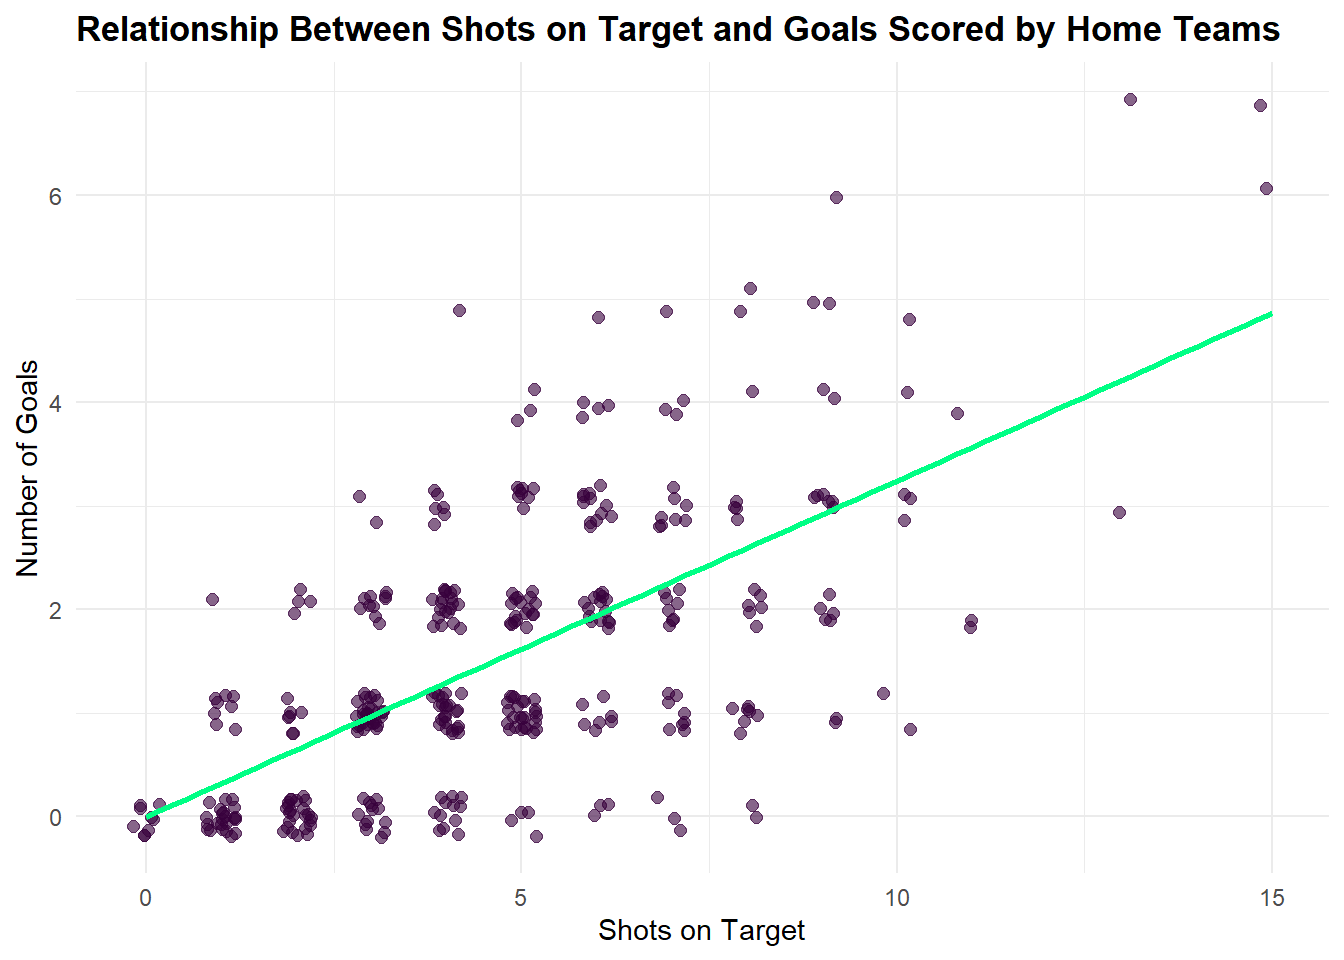
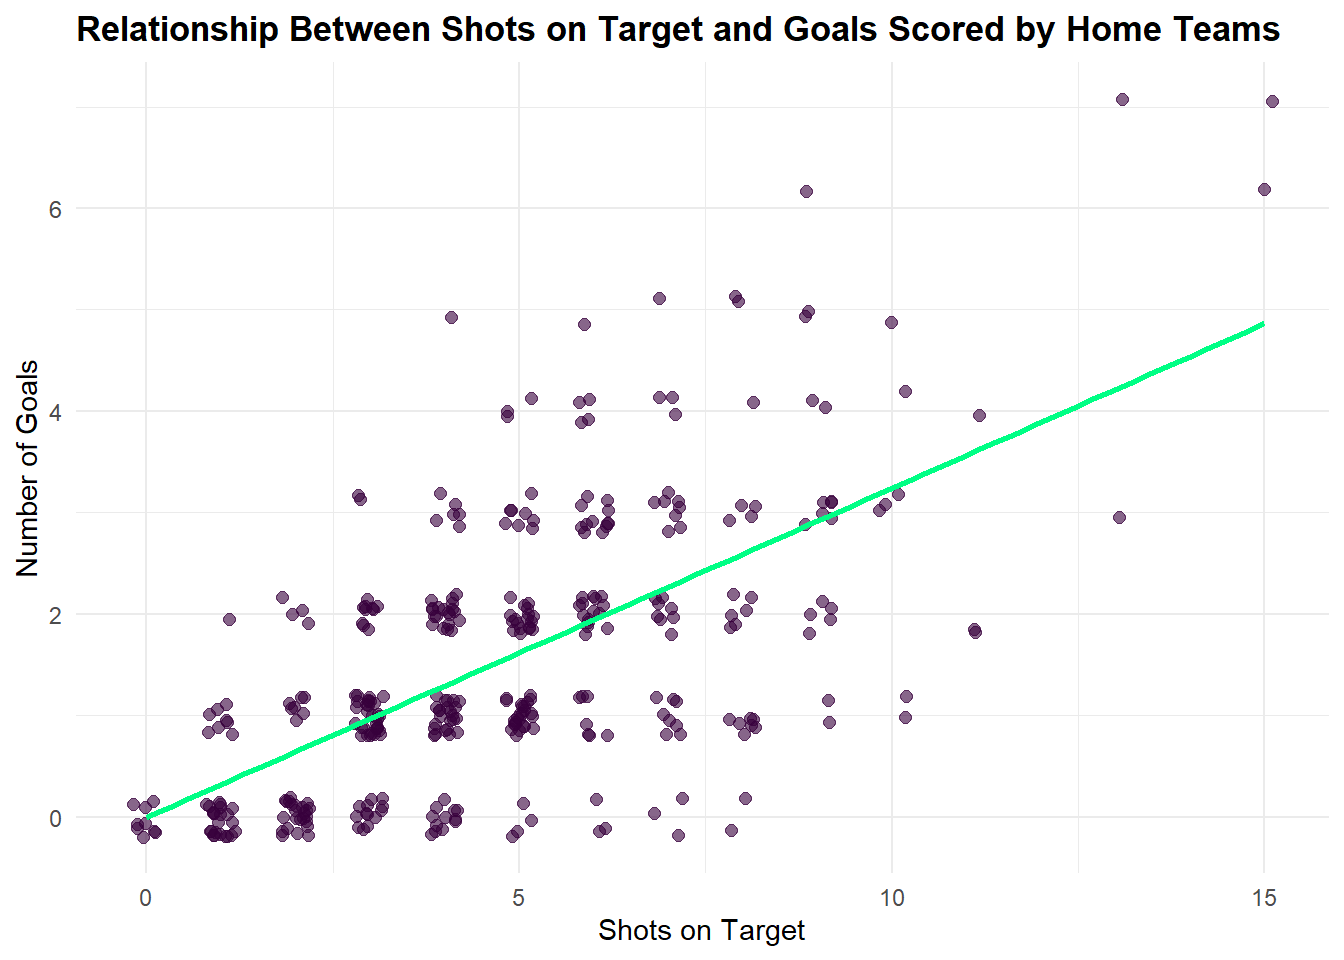
Final Fixes

diff --git a/docs/Premier League Match Analysis.html b/docs/Premier League Match Analysis.html
@@ -324,7 +324,7 @@ ul.task-list li input[type="checkbox"] {
 
 <div>
   <div class="description">
-    Analysis Of Premier League Data from Tidy Tuesday
+    <p>Analysis Of Premier League Data from Tidy Tuesday</p>
   </div>
 </div>
 
@@ -353,10 +353,13 @@ ul.task-list li input[type="checkbox"] {
 </header>
 
 
-<p>## Introduction</p>
+<section id="introduction" class="level2">
+<h2 class="anchored" data-anchor-id="introduction">Introduction</h2>
 <p>The Premier League is widely regarded as the most competitive domestic football league in the world, where fine margins separate the top of the table from the bottom. This analysis explores match-level data from the 2021/22 Premier League season to understand what actually drives goals and match outcomes. Specifically, it investigates three questions: Does shooting more lead to scoring more? Does shot accuracy matter more than shot volume? And does playing at home provide a measurable scoring advantage?</p>
-<p><strong>**Key</strong> question: What factors are most associated with scoring goals in the Premier League, and how much of an edge does home advantage really provide?</p>
-<p>## Shots vs.&nbsp;Goals</p>
+<p><strong>Key question: What factors are most associated with scoring goals in the Premier League, and how much of an edge does home advantage really provide?</strong></p>
+</section>
+<section id="shots-vs.-goals" class="level2">
+<h2 class="anchored" data-anchor-id="shots-vs.-goals">Shots vs.&nbsp;Goals</h2>
 <div class="cell">
 <div class="cell-output-display">
 <div>
@@ -367,8 +370,9 @@ ul.task-list li input[type="checkbox"] {
 </div>
 </div>
 <p>The scatter plot above shows the relationship between the number of shots a home team takes and the number of goals they score in a match. The trend line shows a positive relationship — teams that take more shots tend to score more goals — but the relationship is far from perfect. Many matches with 15-20 shots still resulted in zero or one goal, while a handful of matches saw teams convert relatively few shots into multiple goals. This suggests that shot volume alone is not the full story behind scoring output.</p>
-<p><br>
-## Shot Accuracy vs.&nbsp;Goals</p>
+</section>
+<section id="shot-accuracy-vs.-goals" class="level2">
+<h2 class="anchored" data-anchor-id="shot-accuracy-vs.-goals">Shot Accuracy vs.&nbsp;Goals</h2>
 <div class="cell">
 <div class="cell-output-display">
 <div>
@@ -378,9 +382,10 @@ ul.task-list li input[type="checkbox"] {
 </div>
 </div>
 </div>
-<p>This second plot narrows the focus from total shots to shots <em>on target</em>, a more direct measure of attacking quality. The relationship here is noticeably tighter than the first plot, suggesting that shot accuracy is a stronger predictor of goals than shot volume alone. In other words, teams that consistently test the goalkeeper are more likely to score than teams that simply shoot often without precision. This points to a broader insight: quality of chances created often matters more than raw shot count.<br>
-<br>
-## Home Advantage</p>
+<p>This second plot narrows the focus from total shots to shots on target, a more direct measure of attacking quality. The relationship here is noticeably tighter than the first plot, suggesting that shot accuracy is a stronger predictor of goals than shot volume alone. In other words, teams that consistently test the goalkeeper are more likely to score than teams that simply shoot often without precision. This points to a broader insight: quality of chances created often matters more than raw shot count.</p>
+</section>
+<section id="home-advantage" class="level2">
+<h2 class="anchored" data-anchor-id="home-advantage">Home Advantage</h2>
 <div class="cell">
 <div class="cell-output-display">
 <div>
@@ -390,17 +395,19 @@ ul.task-list li input[type="checkbox"] {
 </div>
 </div>
 </div>
-<p>The final chart compares the average number of goals scored by home teams versus away teams across the entire season. Home teams scored more goals on average than away teams, confirming the long-discussed “home advantage” effect in football. This is likely driven by a combination of factors not captured in this dataset, including crowd support, travel fatigue for the away side, and greater familiarity with the pitch and surroundings.<br>
-<br>
-## Conclusion</p>
-<p><br>
-Taken together, these three analyses suggest that goals in the Premier League are driven less by sheer shot volume and more by shot quality and contextual factors like home advantage. While teams that take more shots do tend to score more, the relationship strengthens considerably when looking specifically at shots on target, indicating that precision matters more than persistence. Additionally, the consistent home scoring advantage reinforces why managers and analysts place so much emphasis on home form when evaluating a team’s title or relegation chances. Ultimately, the data tells a clear story: in the Premier League, quality of opportunity and home support are just as important as the raw number of attempts a team generates.<br>
-<br>
-## Reference</p>
-<p>Gower, E. (2023). <strong>*Premier</strong> League Match Data* [Data set]. TidyTuesday, R for Data Science. https://github.com/rfordatascience/tidytuesday/blob/main/data/2023/2023-04-04/readme.md</p>
+<p>The final chart compares the average number of goals scored by home teams versus away teams across the entire season. Home teams scored more goals on average than away teams, confirming the long-discussed “home advantage” effect in football. This is likely driven by a combination of factors not captured in this dataset, including crowd support, travel fatigue for the away side, and greater familiarity with the pitch and surroundings.</p>
+</section>
+<section id="conclusion" class="level2">
+<h2 class="anchored" data-anchor-id="conclusion">Conclusion</h2>
+<p>Taken together, these three analyses suggest that goals in the Premier League are driven less by sheer shot volume and more by shot quality and contextual factors like home advantage. While teams that take more shots do tend to score more, the relationship strengthens considerably when looking specifically at shots on target, indicating that precision matters more than persistence. Additionally, the consistent home scoring advantage reinforces why managers and analysts place so much emphasis on home form when evaluating a team’s title or relegation chances. Ultimately, the data tells a clear story: in the Premier League, quality of opportunity and home support are just as important as the raw number of attempts a team generates.</p>
+</section>
+<section id="reference" class="level2">
+<h2 class="anchored" data-anchor-id="reference">Reference</h2>
+<p>Gower, E. (2023). <em>Premier League Match Data</em> [Data set]. TidyTuesday, R for Data Science. <a href="https://github.com/rfordatascience/tidytuesday/blob/main/data/2023/2023-04-04/readme.md" class="uri">https://github.com/rfordatascience/tidytuesday/blob/main/data/2023/2023-04-04/readme.md</a></p>
 <p>Data originally sourced from the official Premier League website and Kaggle, credit to Evan Gower.</p>
 
 
+</section>
 
 </main> <!-- /main -->
 <script id="quarto-html-after-body" type="application/javascript">